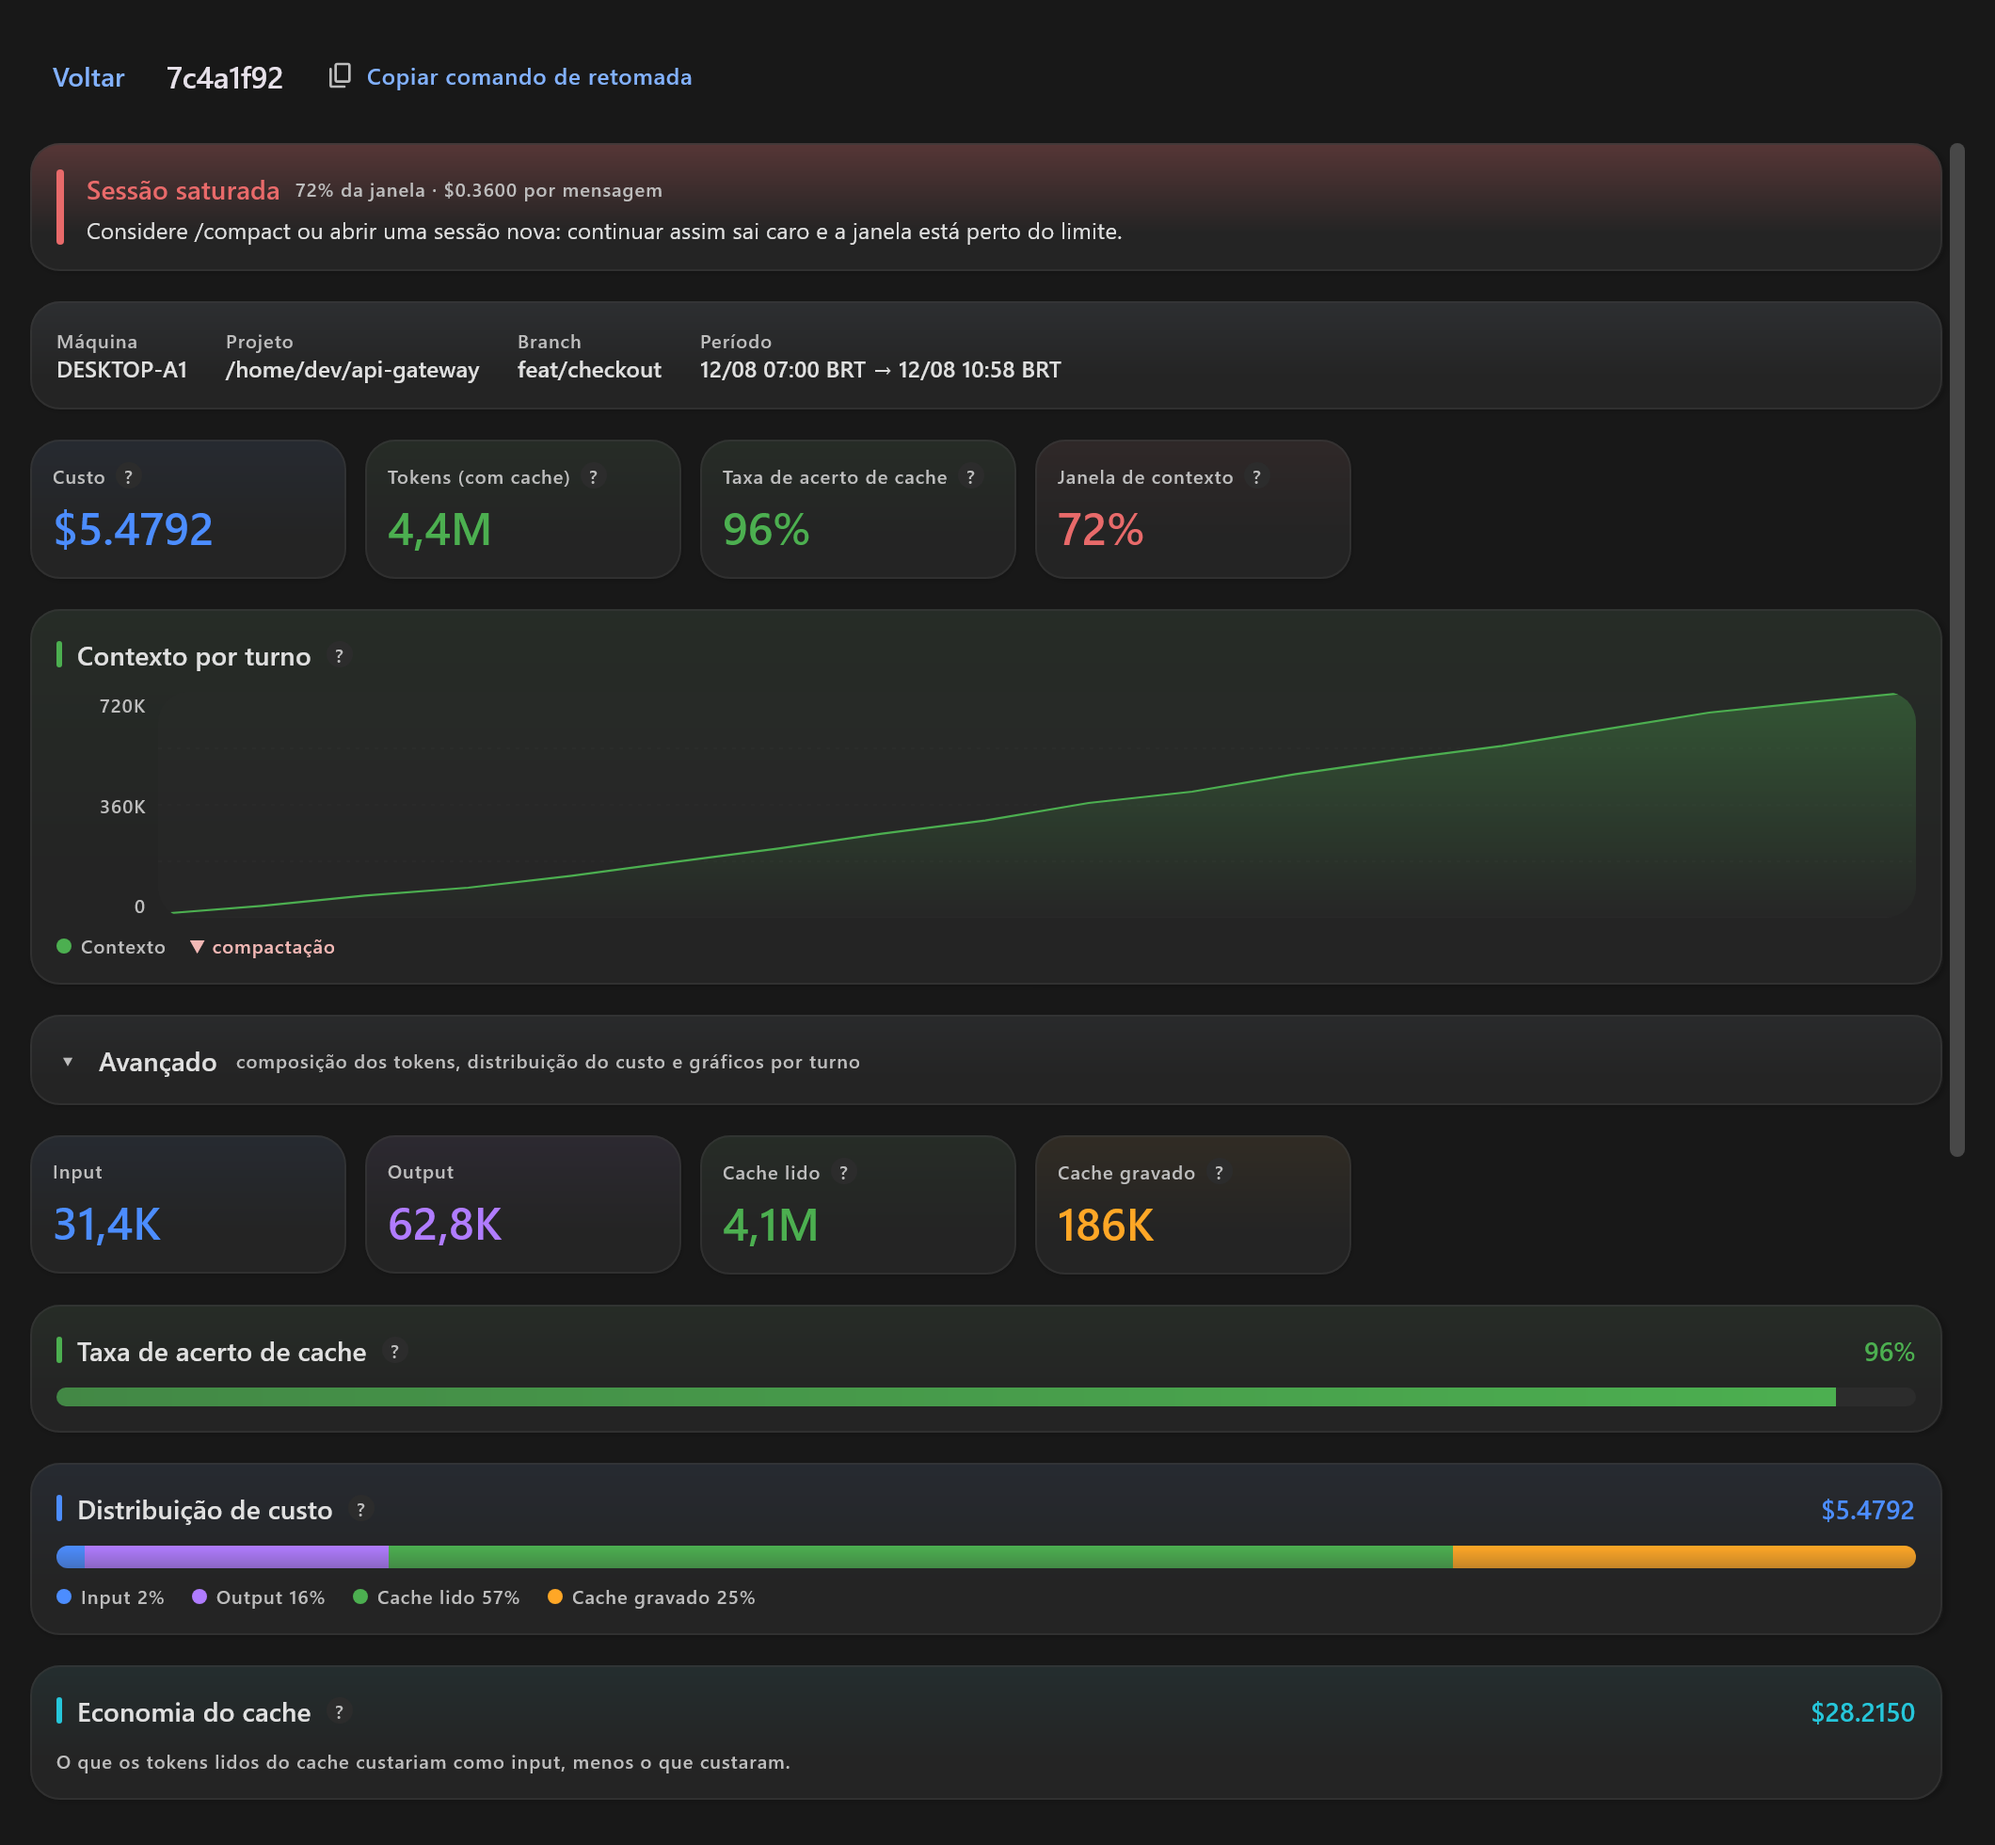
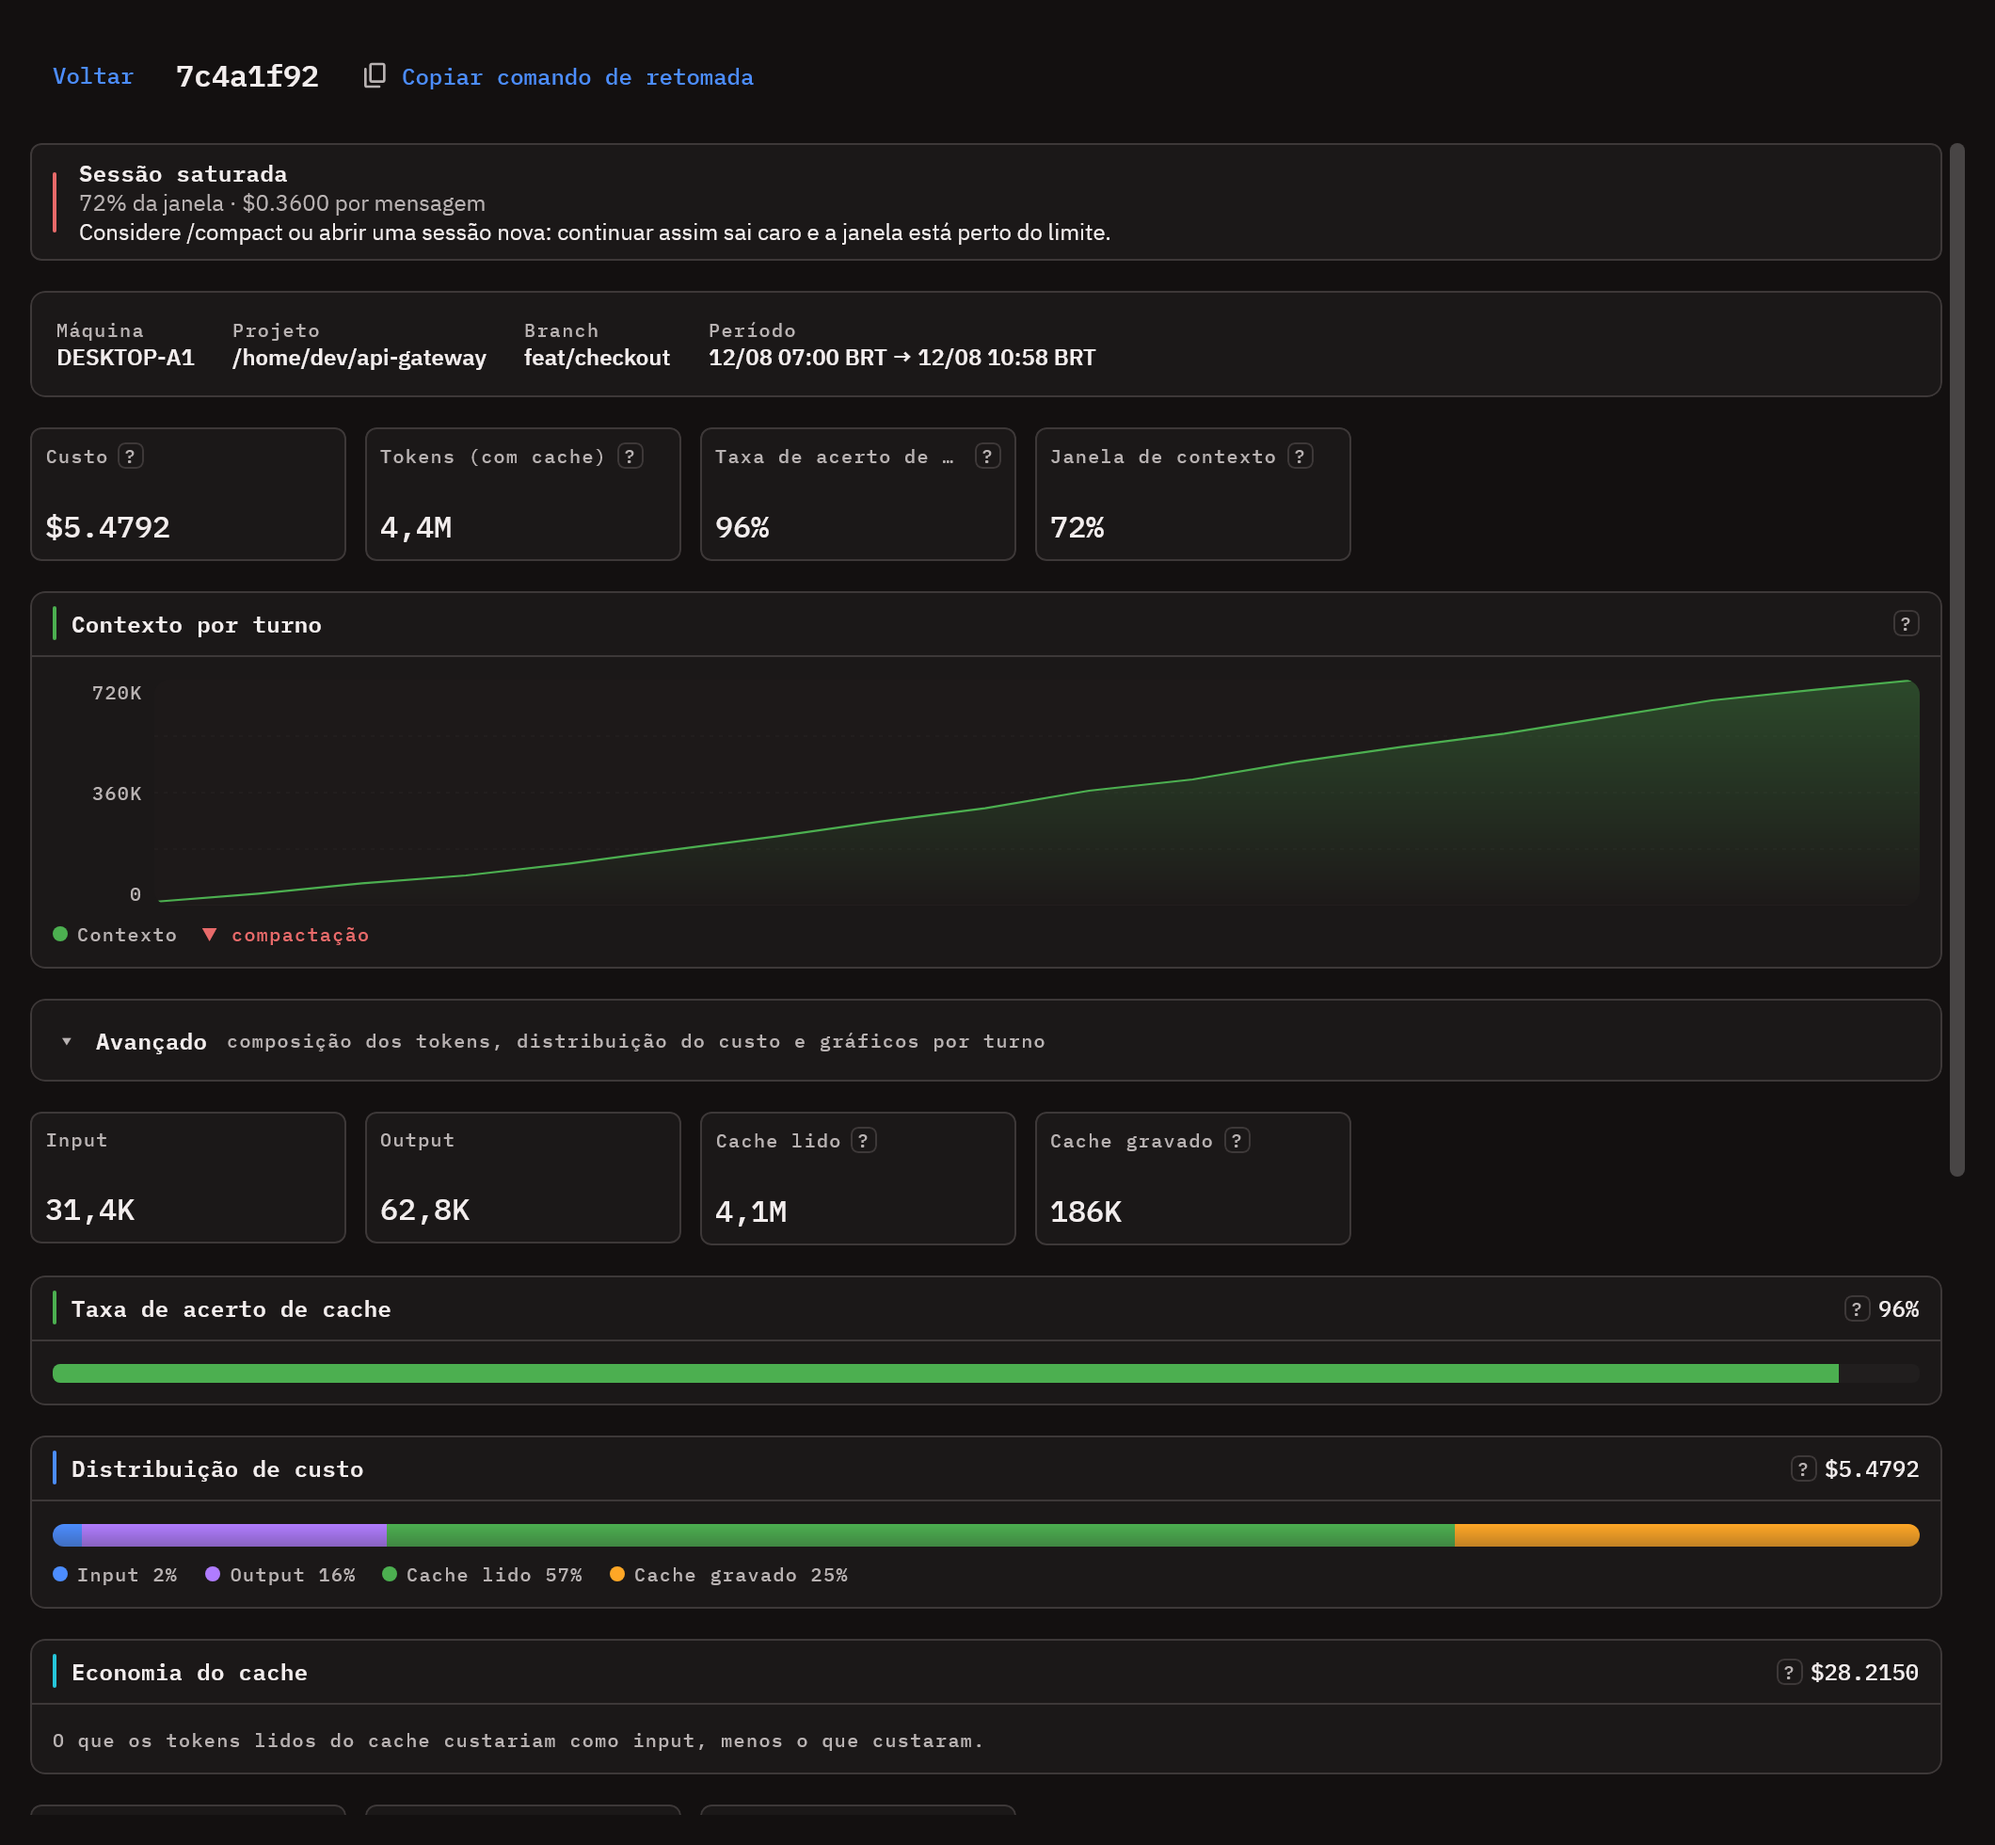
chore(screenshots): regenerate README captures and the tour gif
Nine captures and the tour, now showing the neutral palette, IBM Plex and the
table rows. The presence list joins them: its rows were stacked panels with a
gap between, and twenty machines meant twenty blocks — they become table rows
like every other list in the app, with the 2dp marker carrying the online and
working states.

diff --git a/src/commonMain/kotlin/com/usagemonitor/presentation/ui/TeamPresenceScreen.kt b/src/commonMain/kotlin/com/usagemonitor/presentation/ui/TeamPresenceScreen.kt
@@ -50,6 +50,8 @@ import androidx.compose.ui.unit.dp
 import com.usagemonitor.domain.entity.AppLanguage
 import com.usagemonitor.domain.entity.TeamMemberPresence
 import com.usagemonitor.presentation.ui.components.AppButton
+import com.usagemonitor.presentation.ui.components.AppSourceMarker
+import com.usagemonitor.presentation.ui.components.AppDataRow
 import com.usagemonitor.presentation.ui.components.AppToggleChip
 import com.usagemonitor.presentation.ui.components.AppIconButton
 import com.usagemonitor.presentation.ui.components.AppButtonTone
@@ -666,15 +668,16 @@ private fun TeamPresenceRow(
         else -> MaterialTheme.colorScheme.outline
     }
 
-    DepthSurface(
-        modifier = Modifier
-            .fillMaxWidth()
-            .testTag("$PRESENCE_ROW_TAG_PREFIX${entry.memberKey}"),
-        shape = AppShapes.medium,
-        contentPadding = PRESENCE_ROW_CONTENT_PADDING
+    // Linha de tabela, como as outras listas do app: eram painéis empilhados com
+    // vão entre eles, e uma lista de vinte máquinas virava vinte blocos.
+    AppDataRow(
+        modifier = Modifier.testTag("$PRESENCE_ROW_TAG_PREFIX${entry.memberKey}"),
+        horizontalPadding = PRESENCE_ROW_CONTENT_PADDING,
+        verticalPadding = PRESENCE_ROW_CONTENT_PADDING
     ) {
+        AppSourceMarker(color = accent)
         FlowRow(
-            modifier = Modifier.fillMaxWidth(),
+            modifier = Modifier.weight(1f),
             horizontalArrangement = Arrangement.spacedBy(PRESENCE_COLUMN_SPACING),
             verticalArrangement = Arrangement.spacedBy(8.dp)
         ) {
